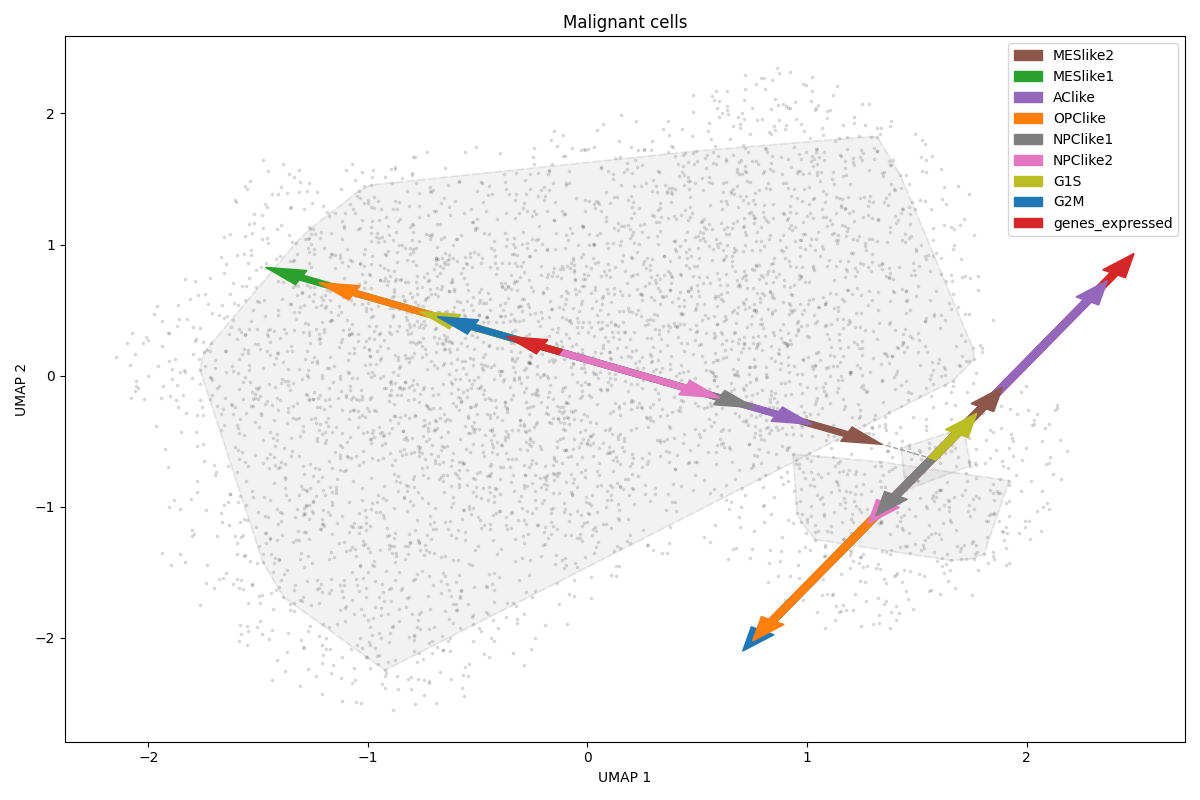
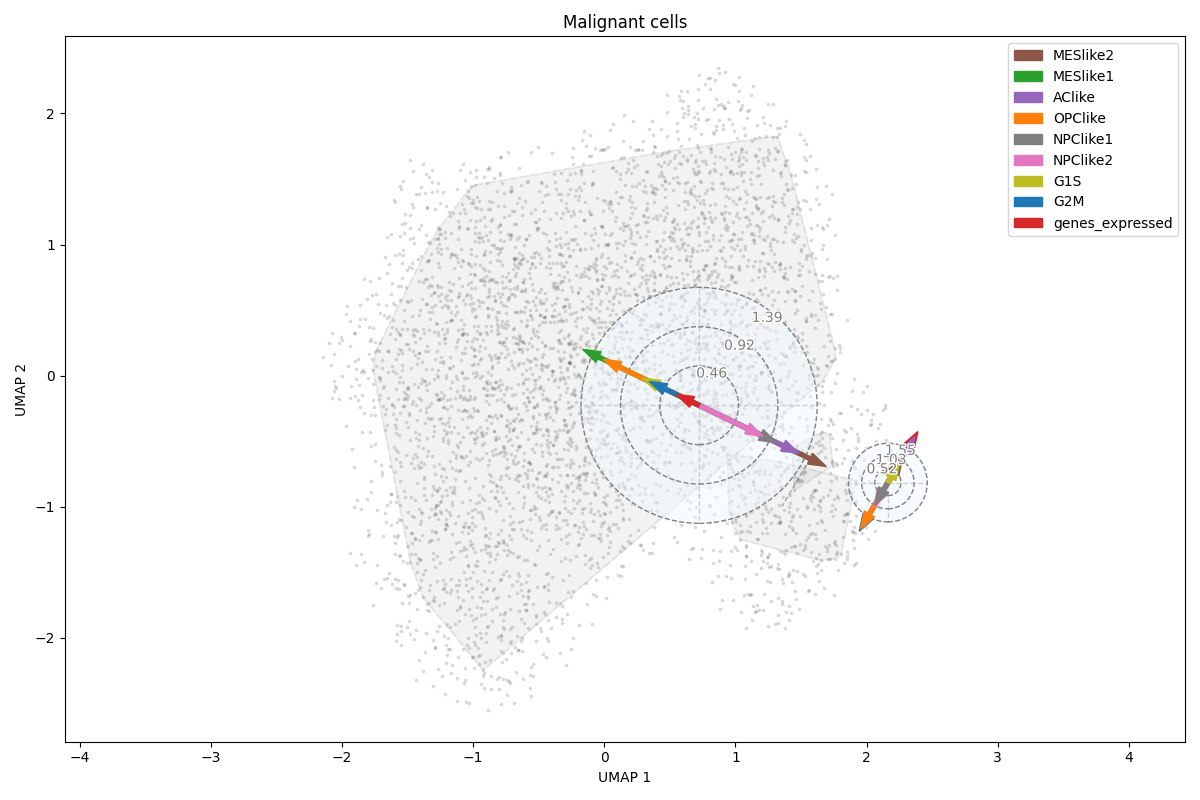
Fix between with circle

diff --git a/src/plot.py b/src/plot.py
@@ -1,3 +1,4 @@
+import copy
 from sklearn.discriminant_analysis import StandardScaler
 import statsmodels.api as sm
 from matplotlib import pyplot as plt, patches
@@ -472,34 +473,55 @@ class NonLinearClock():
         fig, ax = plt.subplots(1, figsize=(12, 8))
         colors = list(mcolors.TABLEAU_COLORS.keys())
         alpha = 0.1
+        # annotate = 0.3
 
-        # Scale coefficients
-        radius = np.abs(coefs).max()
-        c_min, c_max = self._get_cmin_cmax(coefs=coefs)
-        coefs_scaled = coefs * (radius / max(abs(c_max), abs(c_min)))
+        # Neftel
+        scale_circle = [1, 1.5]
+        move_circle = [[0, 0], [0.7, 0]]
+        annotate = [0.3, 0.1]
 
         # Scatter plot
         sc = plt.scatter(data["emb1"], data["emb2"], color='black', s=3, alpha=alpha, zorder=0)
         self._draw_clusters(ax, data, alpha)
         
-        # Add lines
-        for val in mst:
+        # Add lines and clock
+        clock_centers = []
+        coefs_scaled = copy.deepcopy(coefs)
+        for i, val in enumerate(mst):
             p_a, p_b = cl_means[val[0]], cl_means[val[1]]
             plt.plot((p_a[0], p_b[0]), (p_a[1], p_b[1]), c='gray', linestyle="--", alpha=0.7, linewidth=1, zorder=10)
-        
+
+            # Add clock
+            x_center, y_center = np.mean((p_a[0], p_b[0])) + move_circle[i][0], np.mean((p_a[1], p_b[1])) + move_circle[i][1]
+            clock_centers.append([x_center, y_center])
+
+            radius = (math.dist(p_a, p_b) / 2) * scale_circle[i]
+            c_min, c_max = self._get_cmin_cmax(coefs=coefs[i])
+            num_circles = math.floor(radius / annotate[i]) + 1
+            self._add_circles_lines(num_circles, annotate[i], 90, x_center, y_center)
+
+            # num_circles - one circle per annotation
+            self._add_circles(ax, num_circles, annotate[i], x_center, y_center, radius, c_min, c_max)
+
+            coefs_scaled[i] = coefs_scaled[i] * (radius / max(abs(c_max), abs(c_min)))
+
         # Add arrows
         arrows = []
         for j in range(len(mst)):
             for i in abs(coefs_scaled[j]).argsort(axis=None)[::-1]:
+                # Add actual arrow
                 a = math.radians(angles[j])
 
+                x_center, y_center = clock_centers[mst[j][0]]
+                
                 if coefs_scaled[j, i] != 0:
                     # Plot contributions
                     x_c, y_c = math.cos(a) * coefs_scaled[j, i], math.sin(a) * coefs_scaled[j, i]
                     col = colors[i]
                     lbl = labels[i]
 
-                    arrows.append(plt.arrow(cl_means[mst[j][0]][0], cl_means[mst[j][0]][1], x_c, y_c, width=0.04, color=col, label=lbl, zorder=15))
+                    # arrows.append(plt.arrow(cl_means[mst[j][0]][0], cl_means[mst[j][0]][1], x_c, y_c, width=0.04, color=col, label=lbl, zorder=15))
+                    arrows.append(plt.arrow(x_center, y_center, x_c, y_c, width=0.03, color=col, label=lbl, zorder=15))
 
         plt.legend(arrows, labels)
         self._finish_plot(plot_title=plot_title, save_path=save_path)

diff --git a/test/test_neftel.py b/test/test_neftel.py
@@ -93,7 +93,7 @@ def test_between():
 
     plot_inst = NonLinearClock(X_new, obs, standard_embedding, labels, "UMAP")
     plot_inst.plot_clocks(plot_title="Malignant cells", 
-                          plot_big_clock=True, 
+                          plot_big_clock=False, 
                           plot_small_clock=False,
                           plot_between_cluster=True,
                           standartize_data=True,
